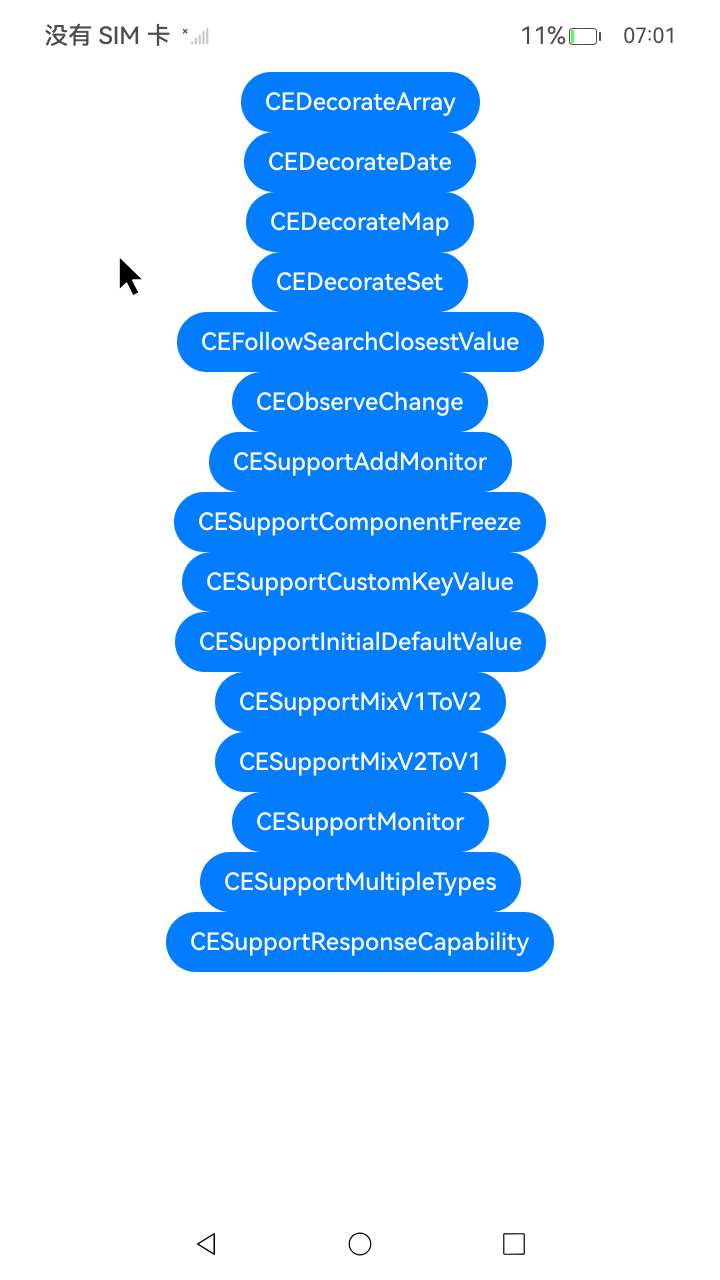
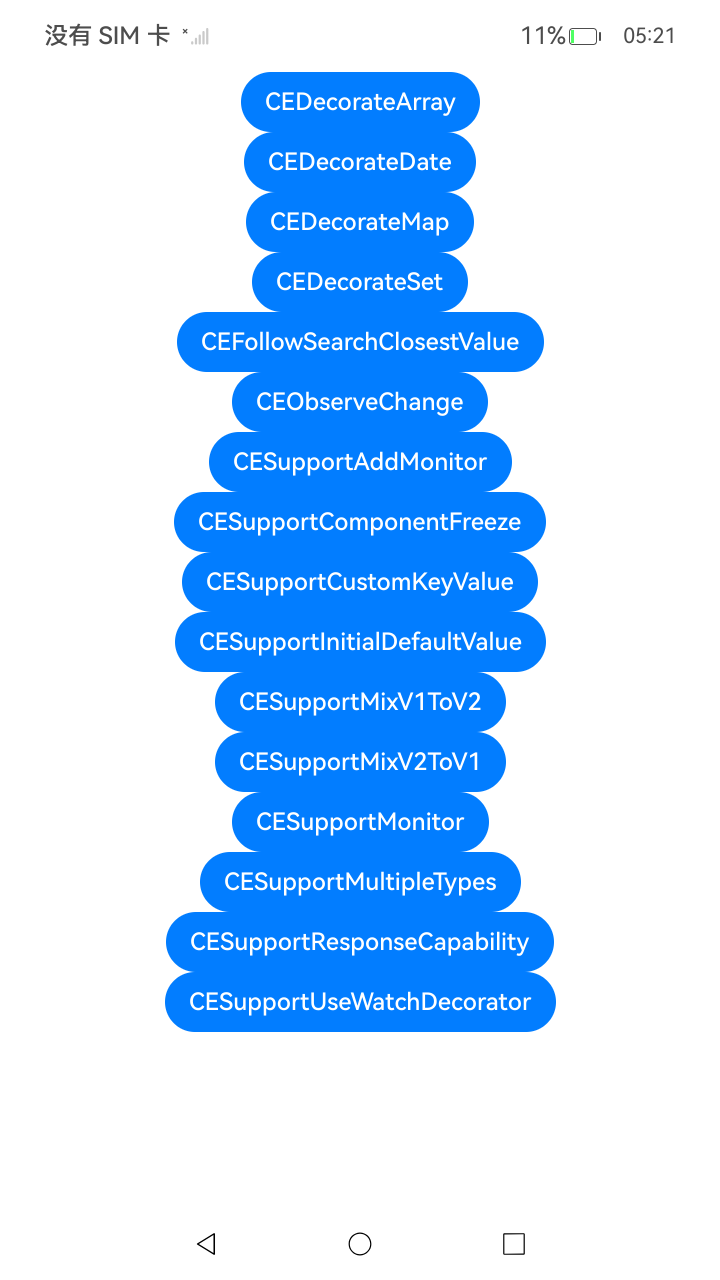
@CustomEnv支持与@Watch连用

Changed region(s): [[0.2139, 0.75, 0.7944, 0.8125], [0.8861, 0.0, 0.9167, 0.0312], [0.1528, 0.1875, 0.1833, 0.2188]]

diff --git a/code/DocsSample/ArkUISample-Sta/CustomEnvSample/README_zh.md b/code/DocsSample/ArkUISample-Sta/CustomEnvSample/README_zh.md
@@ -37,6 +37,7 @@ entry/src/
 │   │   │   ├── CESupportMonitor.ets
 │   │   │   ├── CESupportMultipleTypes.ets
 │   │   │   ├── CESupportResponseCapability.ets
+│   │   │   └── CESupportUseWatchDecorator.ets
 │   └── resources
 │       ├── ...
 ├─── ... 
